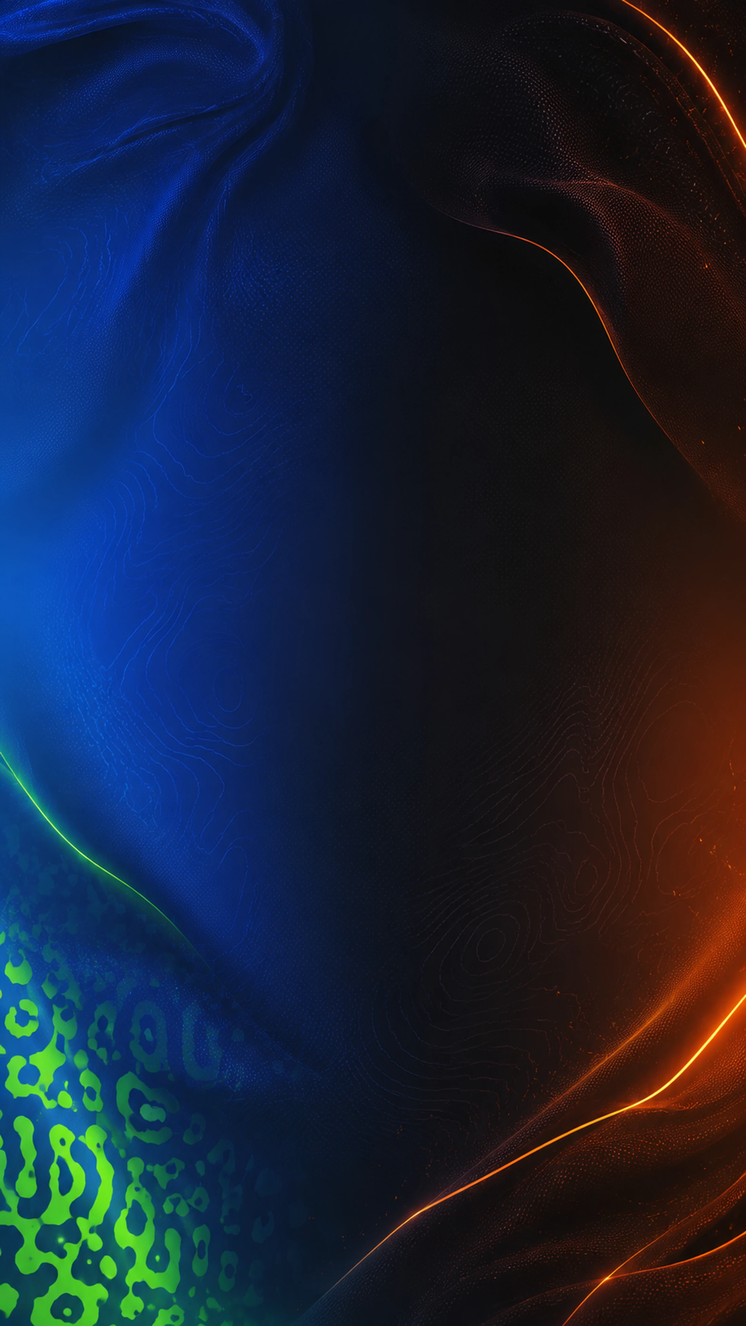
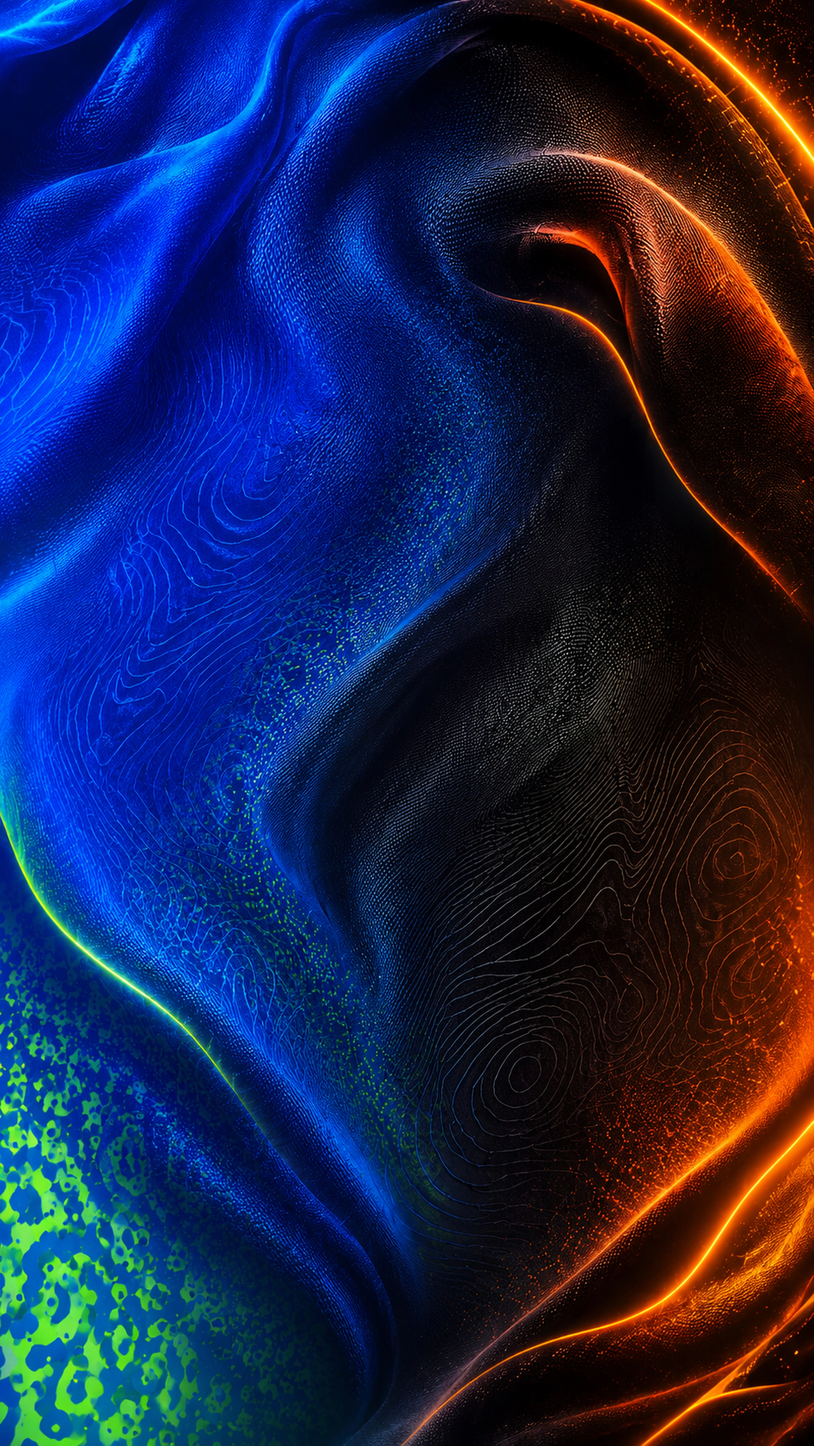
feat: remplace le fond d'écran par la nouvelle image plus vive (#607)
Nouvelle image source (JPEG 10,7 Mo) réencodée en WebP haute qualité
(2,5 Mo, quality 95) pour garder un maximum de détail et de couleurs
tout en restant raisonnable à charger sur mobile.

diff --git a/web/build_version.js b/web/build_version.js
@@ -1,3 +1,3 @@
 (function (globalScope) {
-  globalScope.AS_GRINTA_WEB_VERSION = '0.2.2+28';
+  globalScope.AS_GRINTA_WEB_VERSION = '0.2.2+29';
 })(typeof self !== 'undefined' ? self : window);
